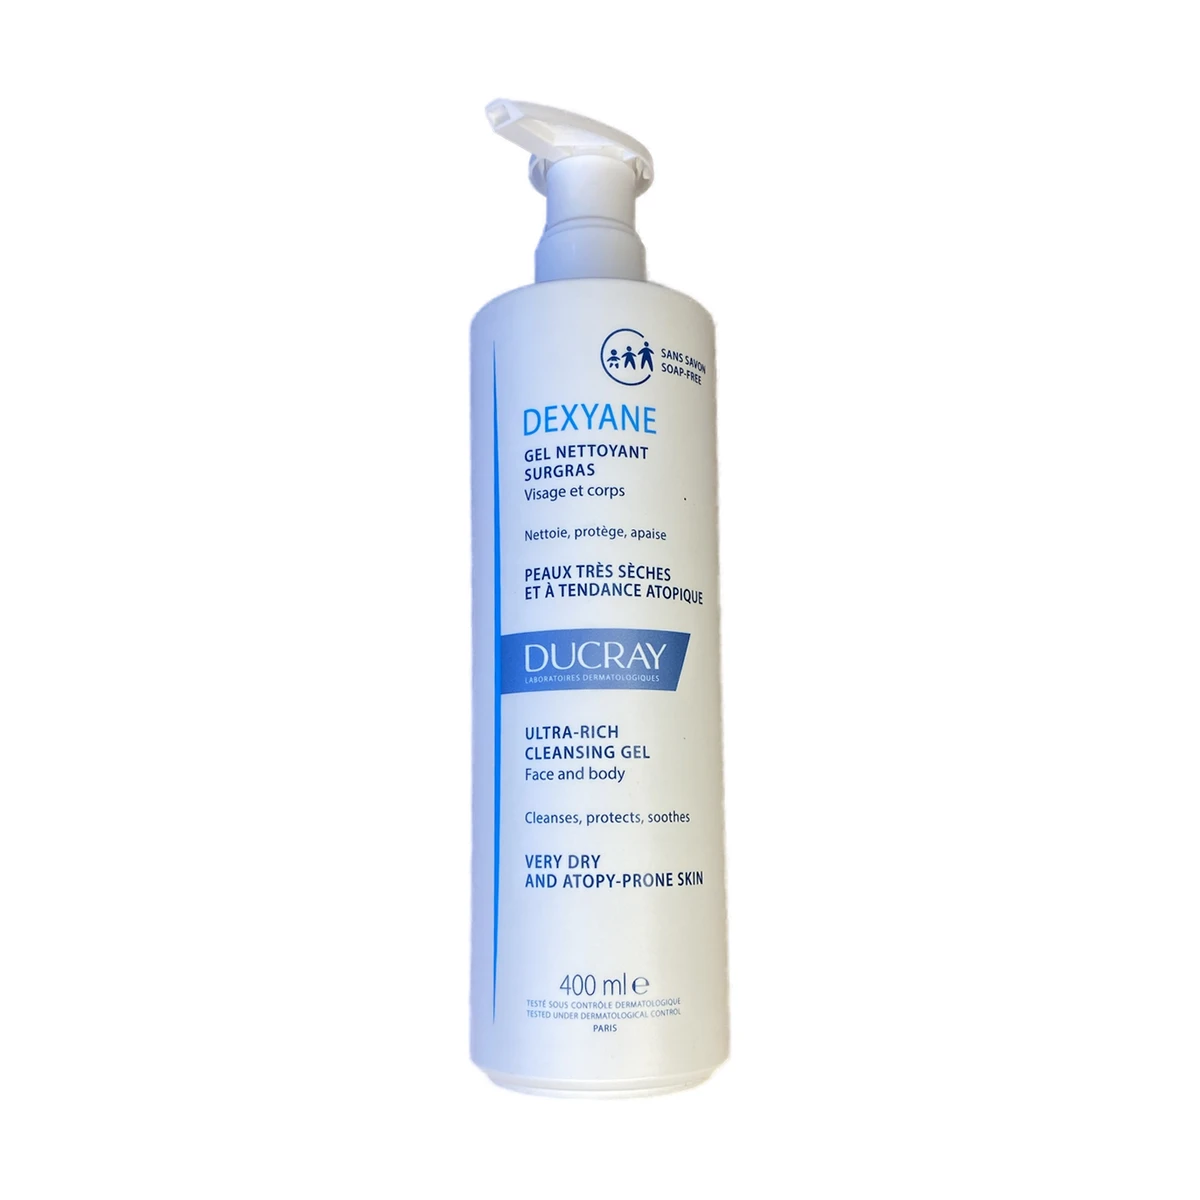
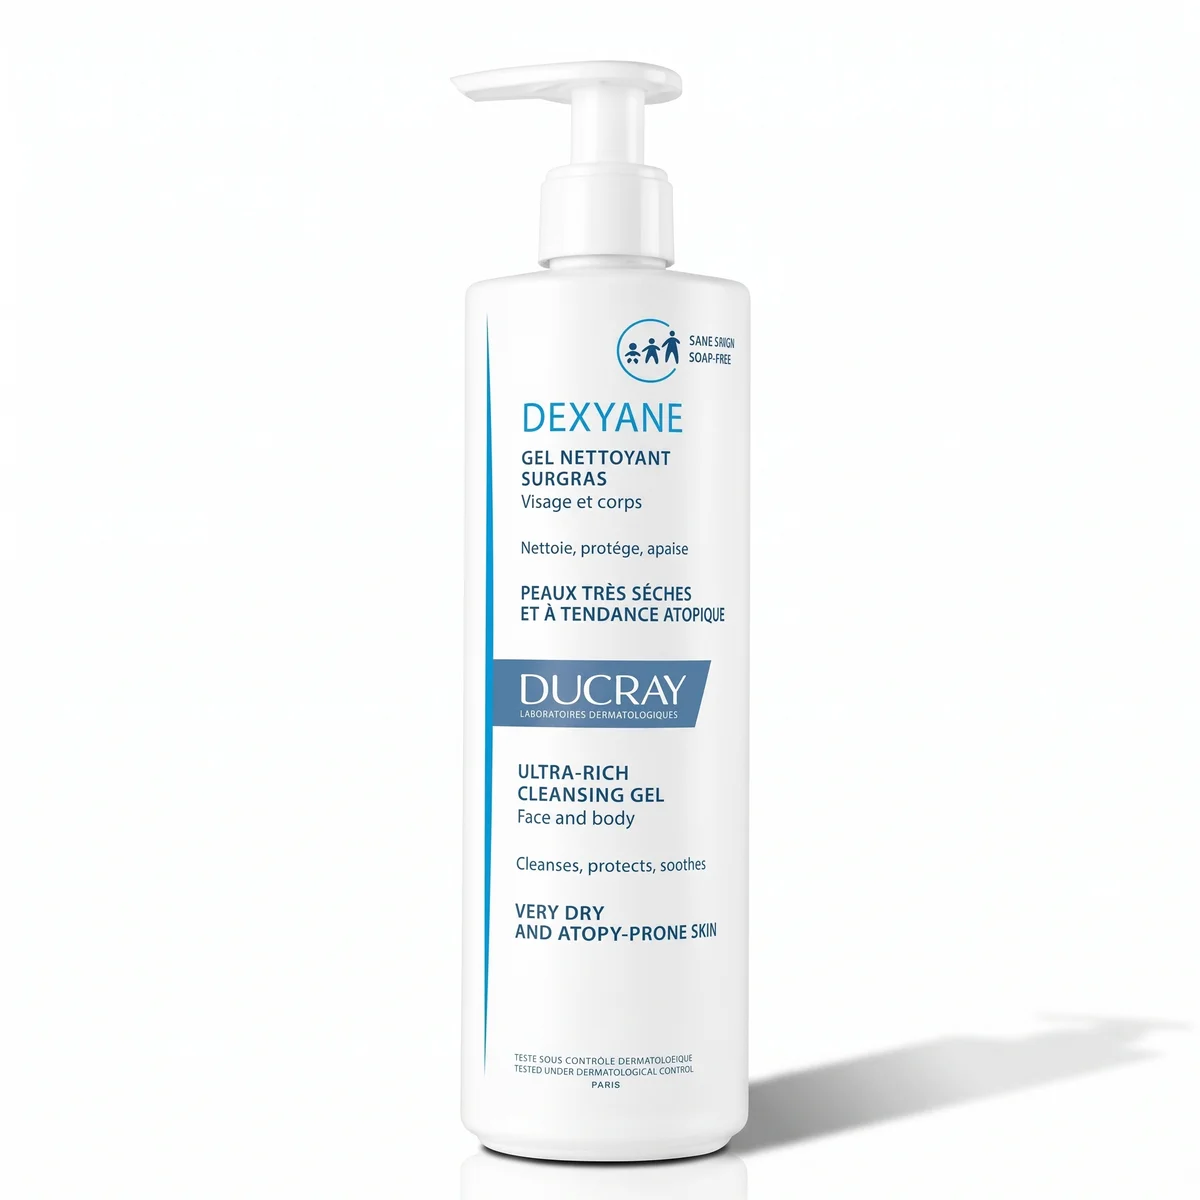
Photos produits : 38 nouveaux packshots (webp + jpg), cartes carrées 8 % de marge, alt « Marque Nom format »
- 13 photos remplacées (001-014, sauf 013 conservée), 25 nouvelles (015-041)
- 10 photos paysage recadrées en carré (hauteur entière conservée)
- anciennes photos sauvegardées dans _anciennes-photos/, doublons dans _photos-non-utilisees/
- cartes en 1/1, vignettes panier en contain

Changed region(s): [[0.37, 0.0308, 0.9558, 0.9867]]

diff --git a/src/components/ProductGallery.tsx b/src/components/ProductGallery.tsx
@@ -26,10 +26,10 @@ export default function ProductGallery({ product }: { product: Product }) {
         className="flex snap-x snap-mandatory overflow-x-auto overscroll-x-contain [scrollbar-width:none] md:grid md:gap-4 md:overflow-visible [&::-webkit-scrollbar]:hidden"
       >
         {frames.map((f, i) => (
-          <div key={i} className="aspect-[4/5] w-full shrink-0 snap-center overflow-hidden rounded-3xl md:w-auto">
+          <div key={i} className="aspect-square w-full shrink-0 snap-center overflow-hidden rounded-3xl md:w-auto">
             <Media
               src={f.src}
-              alt={`${product.name} — vue ${i + 1}`}
+              alt={[product.brand, product.name, product.format].filter(Boolean).join(" ") + (frames.length > 1 ? ` — vue ${i + 1}` : "")}
               art={f.art}
               tone={product.tone}
               placeholder={{ brand: product.brand, name: product.name }}

diff --git a/src/components/cart/CartDrawer.tsx b/src/components/cart/CartDrawer.tsx
@@ -81,7 +81,7 @@ export default function CartDrawer() {
                   {lines.map((l) => (
                     <li key={l.id} className="flex gap-4 py-5">
                       <div className="size-24 shrink-0 overflow-hidden rounded-xl">
-                        <Media src={l.image} alt={l.name} art={l.art} tone={l.tone} placeholder={{ brand: l.brand, name: l.name }} sizes="96px" />
+                        <Media src={l.image} alt={`${l.brand} ${l.name}`} contain art={l.art} tone={l.tone} placeholder={{ brand: l.brand, name: l.name }} sizes="96px" />
                       </div>
                       <div className="flex min-w-0 flex-1 flex-col">
                         <p className="text-[0.6875rem] font-semibold uppercase tracking-[0.14em] text-brown/60">

diff --git a/src/components/cart/CartView.tsx b/src/components/cart/CartView.tsx
@@ -31,7 +31,7 @@ export default function CartView() {
         {lines.map((l) => (
           <li key={l.id} className="flex gap-4 py-6 md:gap-6">
             <div className="size-24 shrink-0 overflow-hidden rounded-2xl md:size-32">
-              <Media src={l.image} alt={l.name} art={l.art} tone={l.tone} placeholder={{ brand: l.brand, name: l.name }} sizes="128px" />
+              <Media src={l.image} alt={`${l.brand} ${l.name}`} contain art={l.art} tone={l.tone} placeholder={{ brand: l.brand, name: l.name }} sizes="128px" />
             </div>
             <div className="flex min-w-0 flex-1 flex-col">
               <p className="text-[0.6875rem] font-semibold uppercase tracking-[0.14em] text-[var(--muted)]">{l.brand}</p>

diff --git a/src/components/ProductCard.tsx b/src/components/ProductCard.tsx
@@ -25,7 +25,7 @@ export default function ProductCard({ product, compact, priority }: Props) {
         <Link href={href} tabIndex={-1} aria-hidden="true" className={s.mediaLink}>
           <Media
             src={product.images[0]}
-            alt={product.name}
+            alt={[product.brand, product.name, product.format].filter(Boolean).join(" ")}
             art={product.art}
             tone={product.tone}
             contain

diff --git a/src/components/ui/Media.module.css b/src/components/ui/Media.module.css
@@ -82,6 +82,8 @@
 }
 .photoContain {
   object-fit: contain;
+  /* marge intérieure ~8 % : produit entier, jamais collé au cadre */
+  padding: 8%;
 }
 .white {
   background: #fff;

diff --git a/src/components/ProductCard.module.css b/src/components/ProductCard.module.css
@@ -19,7 +19,7 @@
 }
 .media {
   position: relative;
-  aspect-ratio: 4 / 5;
+  aspect-ratio: 1 / 1;
   overflow: hidden;
 }
 .mediaLink {
